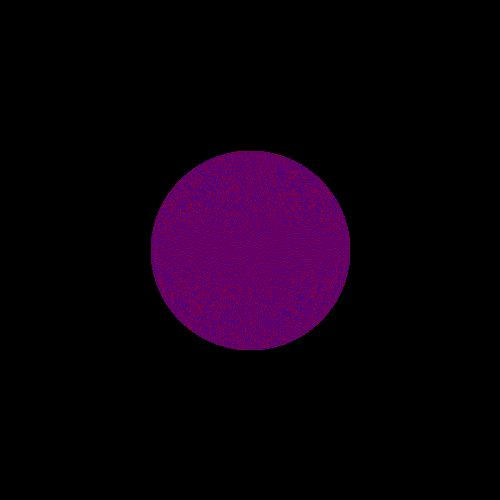
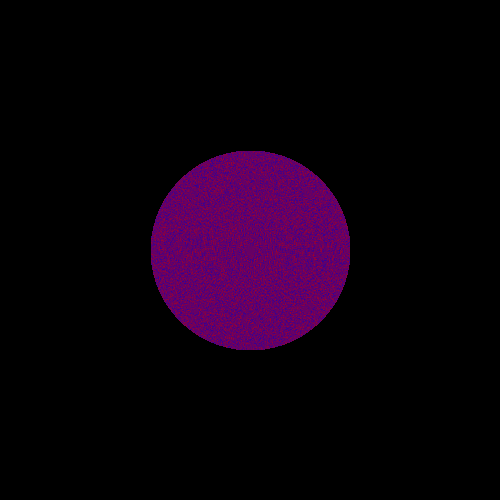
Add color to some chapter tests

Changed region(s): [[0.3, 0.3, 0.72, 0.72]]

diff --git a/src/me/jessicaalohse/raytracer/images/Chapter3Image.java b/src/me/jessicaalohse/raytracer/images/Chapter3Image.java
@@ -15,9 +15,8 @@ public class Chapter3Image {
 		int rowsColumns = 101;
 		long start = System.currentTimeMillis();
 		Image image = new Image(rowsColumns, rowsColumns);
-		RGB lightGray = new RGB(215, 215, 215);
-		Sphere largeSphere = new Sphere(50, -80, -1000, 100, lightGray, 0);
-		Sphere smallSphere = new Sphere(50, 50, -1000, 30, lightGray, 0);
+		Sphere largeSphere = new Sphere(50, -80, -1000, 100, new RGB(0, 0, 255), 0);
+		Sphere smallSphere = new Sphere(50, 50, -1000, 30, new RGB(255, 0, 255), 0);
 		image.addSurface(largeSphere);
 		image.addSurface(smallSphere);
 		Light light = new Light(new Vector3D(0, 1, 0), new RGB(255, 255, 255));

diff --git a/src/me/jessicaalohse/raytracer/images/light_tests/OneLightImage.java b/src/me/jessicaalohse/raytracer/images/light_tests/OneLightImage.java
@@ -14,8 +14,8 @@ public class OneLightImage {
 		long start = System.currentTimeMillis();
 		Image image = new Image(rowsColumns, rowsColumns);
 		RGB lightGray = new RGB(215, 215, 215);
-		Sphere largeSphere = new Sphere(250, 120, -1000, 100, lightGray, 0);
-		Sphere smallSphere = new Sphere(250, 250, -1000, 30, lightGray, 0);
+		Sphere largeSphere = new Sphere(250, 120, -1000, 100, new RGB(0, 0, 255), 0);
+		Sphere smallSphere = new Sphere(250, 250, -1000, 30, new RGB(255, 255, 0), 0);
 		image.addSurface(largeSphere);
 		image.addSurface(smallSphere);
 		Light light = new Light(new Vector3D(0, 1, 0), new RGB(255, 255, 255));
